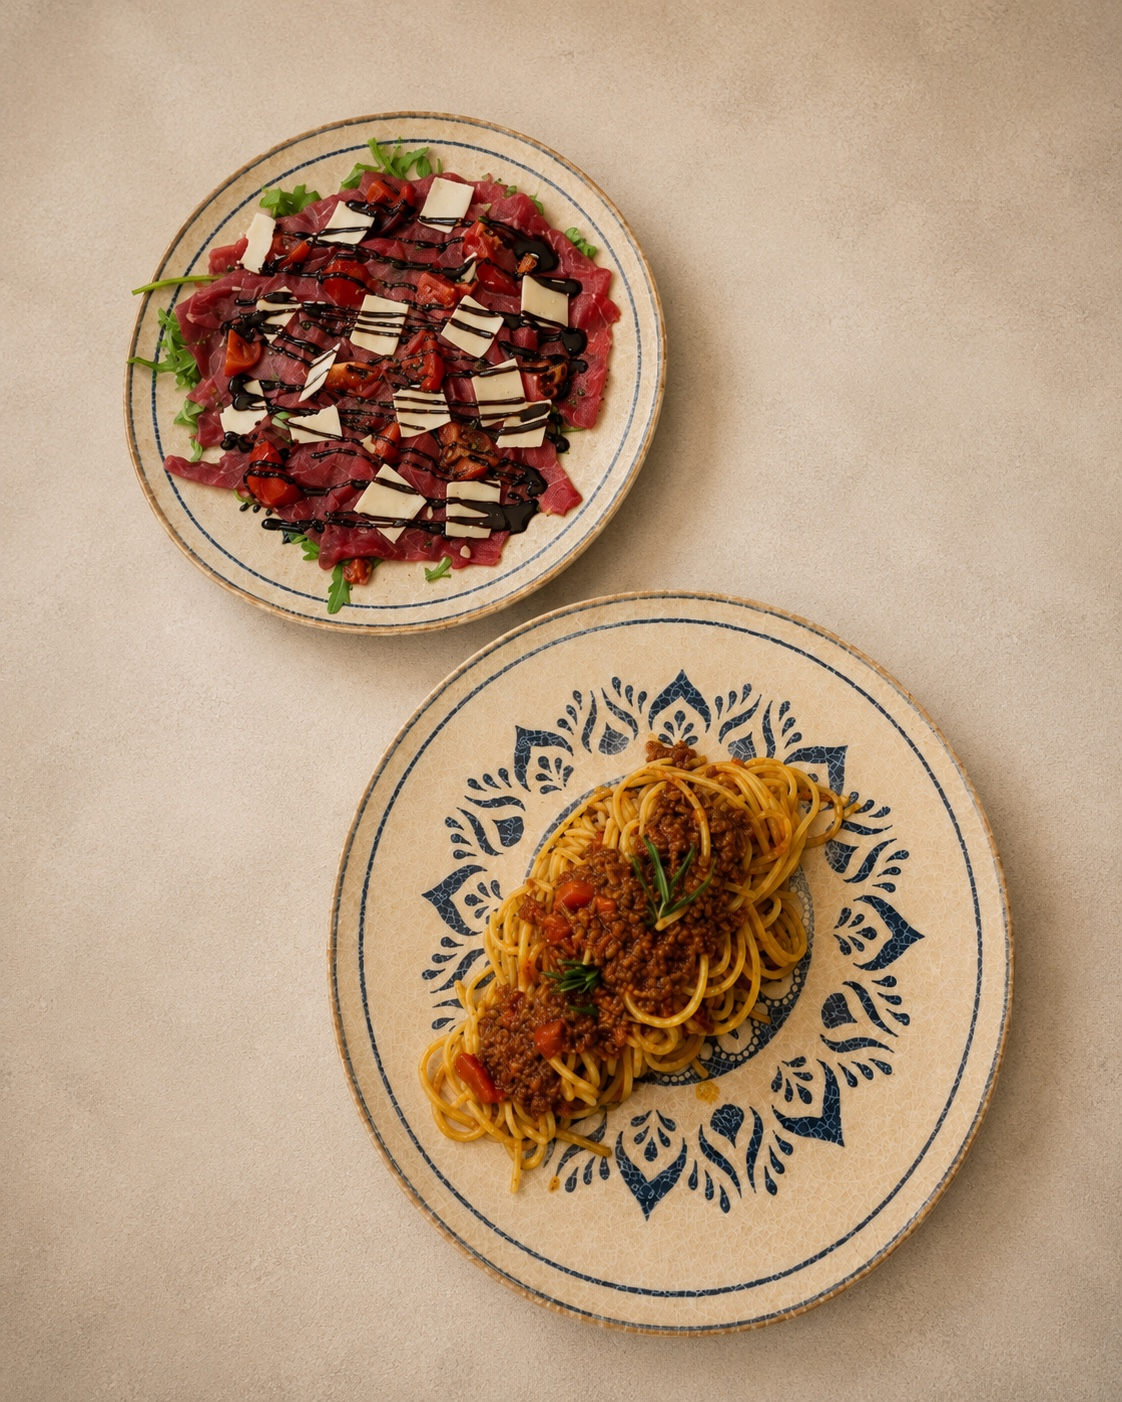
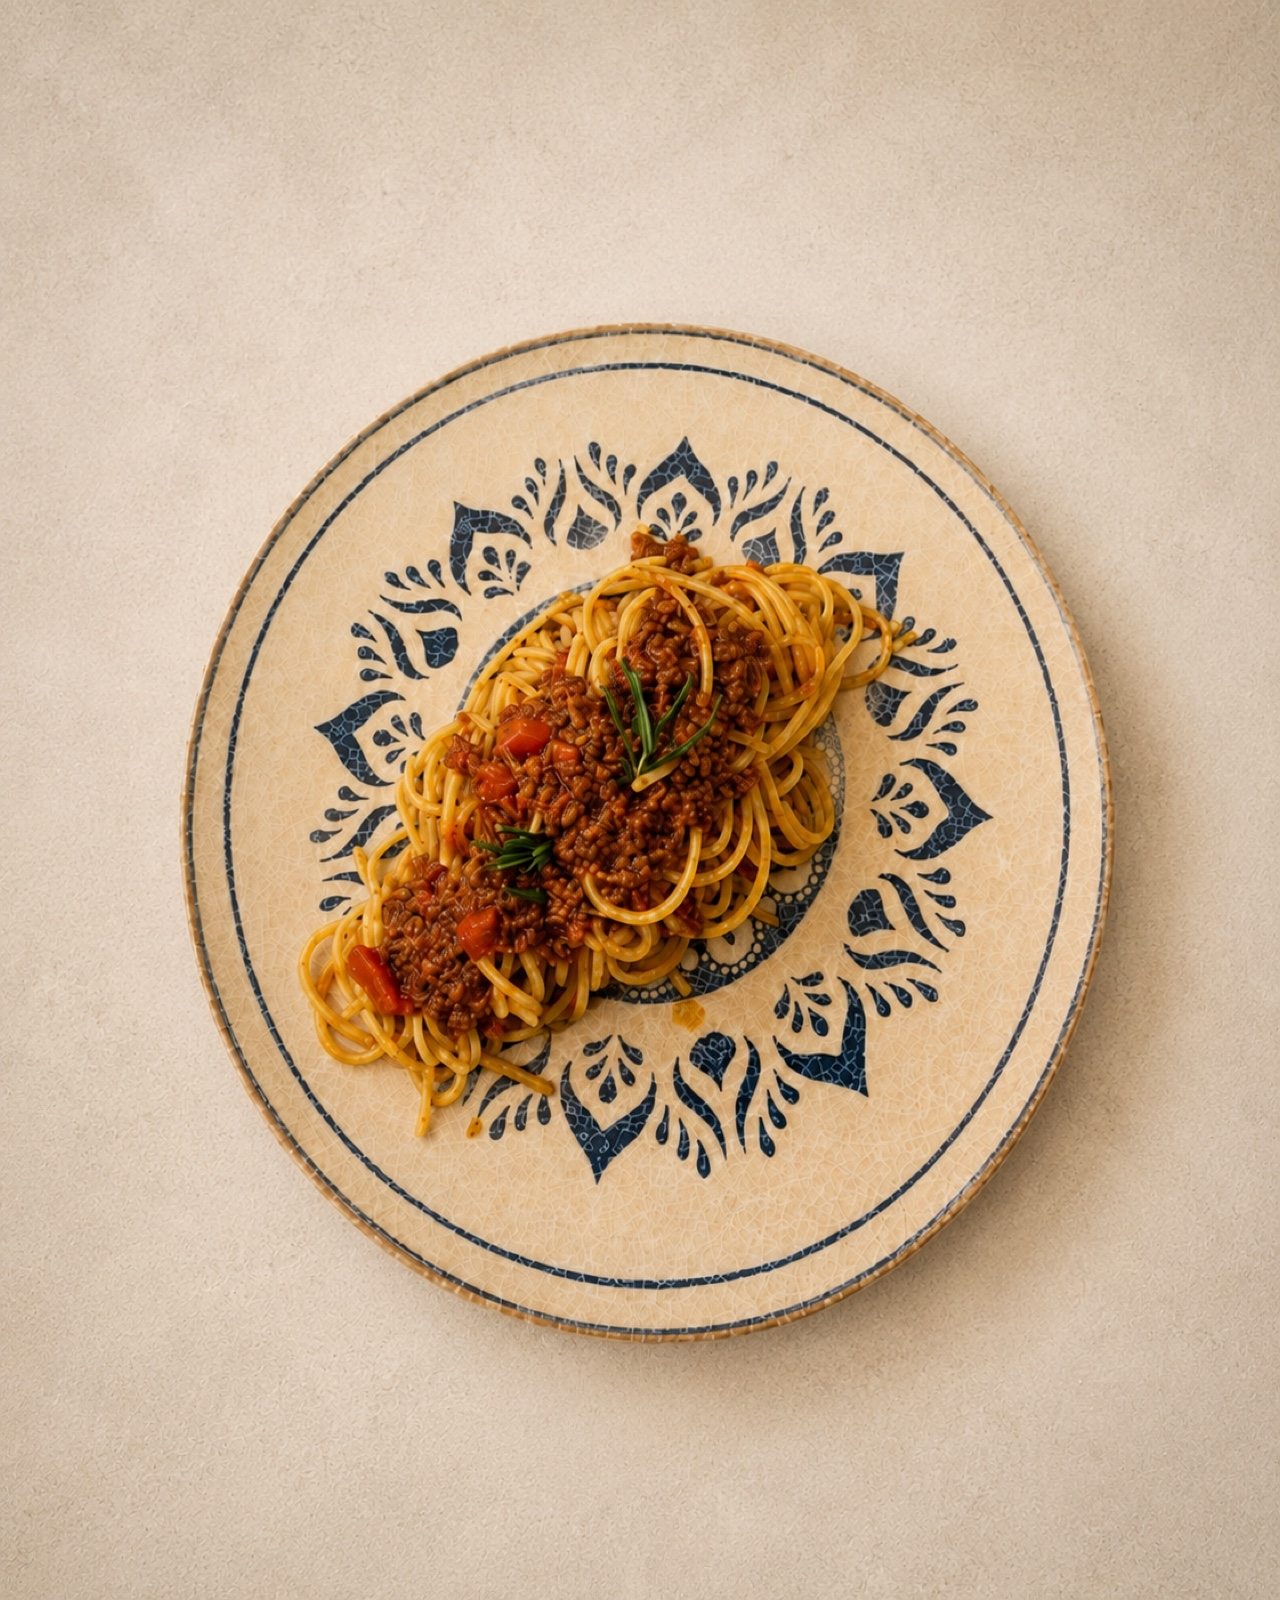
Fix dev-server crash + dedicated port; footer -> nuvenhub
- Restore the signature "Spaghetti alla Bolognese" image: v2-food-bolognese.jpg
  had been renamed to carpaccio-e-bolognese.jpg, so content.ts's import 404'd
  and the dev server served a blank page. Renamed it back to the expected name.
- Move the local dev server to a dedicated port 5188 (was 8080, which collides
  with the subflow site) + strictPort so it never silently drifts.
- Remove the duplicate soute-cozze-foto from the "Inside Al Primo Piano" block.
- Footer credit "by subflow." -> "by nuvenhub" (Comfortaa font, "hub" in the
  Nuven pink #e31a56).

diff --git a/src/pages/versions/v2/V2Footer.tsx b/src/pages/versions/v2/V2Footer.tsx
@@ -102,10 +102,10 @@ export const V2Footer = ({ tr }: { tr: Strings }) => {
             </div>
           </div>
           <div className="mt-8 text-center">
-            <a href="https://subflowofficial.com" target="_blank" rel="noreferrer" className="inline-flex items-baseline gap-1.5 opacity-70 transition-opacity hover:opacity-100">
+            <a href="https://nuvenhub.com" target="_blank" rel="noreferrer" className="inline-flex items-baseline gap-1.5 opacity-70 transition-opacity hover:opacity-100">
               <span className="text-[10px] font-semibold uppercase tracking-[0.2em] text-[#f7f0e0]/40">by</span>
-              <span className="font-['Playfair_Display'] text-[18px] font-bold leading-none">
-                <span className="text-[#f7f0e0]">sub</span><span style={{ color: "#e31a56" }}>flow.</span>
+              <span className="font-['Comfortaa'] text-[16px] font-bold leading-none tracking-[0.06em]">
+                <span className="text-[#f7f0e0]">nuven</span><span style={{ color: "#e31a56" }}>hub</span>
               </span>
             </a>
           </div>

diff --git a/src/index.css b/src/index.css
@@ -4,8 +4,8 @@
 @import url('https://fonts.googleapis.com/css2?family=Cinzel:wght@400;500;600;700&family=Spectral:ital,wght@0,300;0,400;0,500;0,600;1,400&display=swap');
 @import url('https://fonts.googleapis.com/css2?family=Alfa+Slab+One&family=Bitter:ital,wght@0,300;0,400;0,500;0,600;0,700;1,400&family=Caveat:wght@500;600;700&display=swap');
 @import url('https://fonts.googleapis.com/css2?family=Special+Elite&family=Rye&family=Fredericka+the+Great&family=Zilla+Slab:ital,wght@0,400;0,500;0,600;0,700;1,400&family=Patrick+Hand&display=swap');
-/* Playfair Display — only for the "subflow." footer credit logo */
-@import url('https://fonts.googleapis.com/css2?family=Playfair+Display:wght@600;700;800&display=swap');
+/* Comfortaa — only for the "nuvenhub" footer credit logo (matches the Nuven wordmark) */
+@import url('https://fonts.googleapis.com/css2?family=Comfortaa:wght@500;600;700&display=swap');
 
 @tailwind base;
 @tailwind components;

diff --git a/vite.config.ts b/vite.config.ts
@@ -7,8 +7,10 @@ export default defineConfig({
   plugins: [react()],
   server: {
     host: "::",
-    port: 8080,
-    // Fail loudly instead of drifting to 8081 when an instance is already up.
+    // Dedicated port for Al Primo Piano — kept clear of other projects (e.g. the
+    // subflow site on 8080) so they never clash.
+    port: 5188,
+    // Fail loudly instead of drifting to another port when 5188 is already up.
     strictPort: true,
     hmr: {
       overlay: false,

diff --git a/src/pages/versions/v2/GalleryPage.tsx b/src/pages/versions/v2/GalleryPage.tsx
@@ -28,7 +28,6 @@ const GalleryPage = () => {
     v2photos.harbor, v2photos.wheel, v2photos.terrace, v2photos.corner,
     images.inside[0], images.inside[1], images.inside[2], images.inside[3],
     images.moments[0], images.moments[2], images.moments[3],
-    foodCatalogUrl("soute-cozze-foto.jpg"),
   ];
 
   const Block = ({ label, title, items }: { label: string; title: string; items: string[] }) => (
